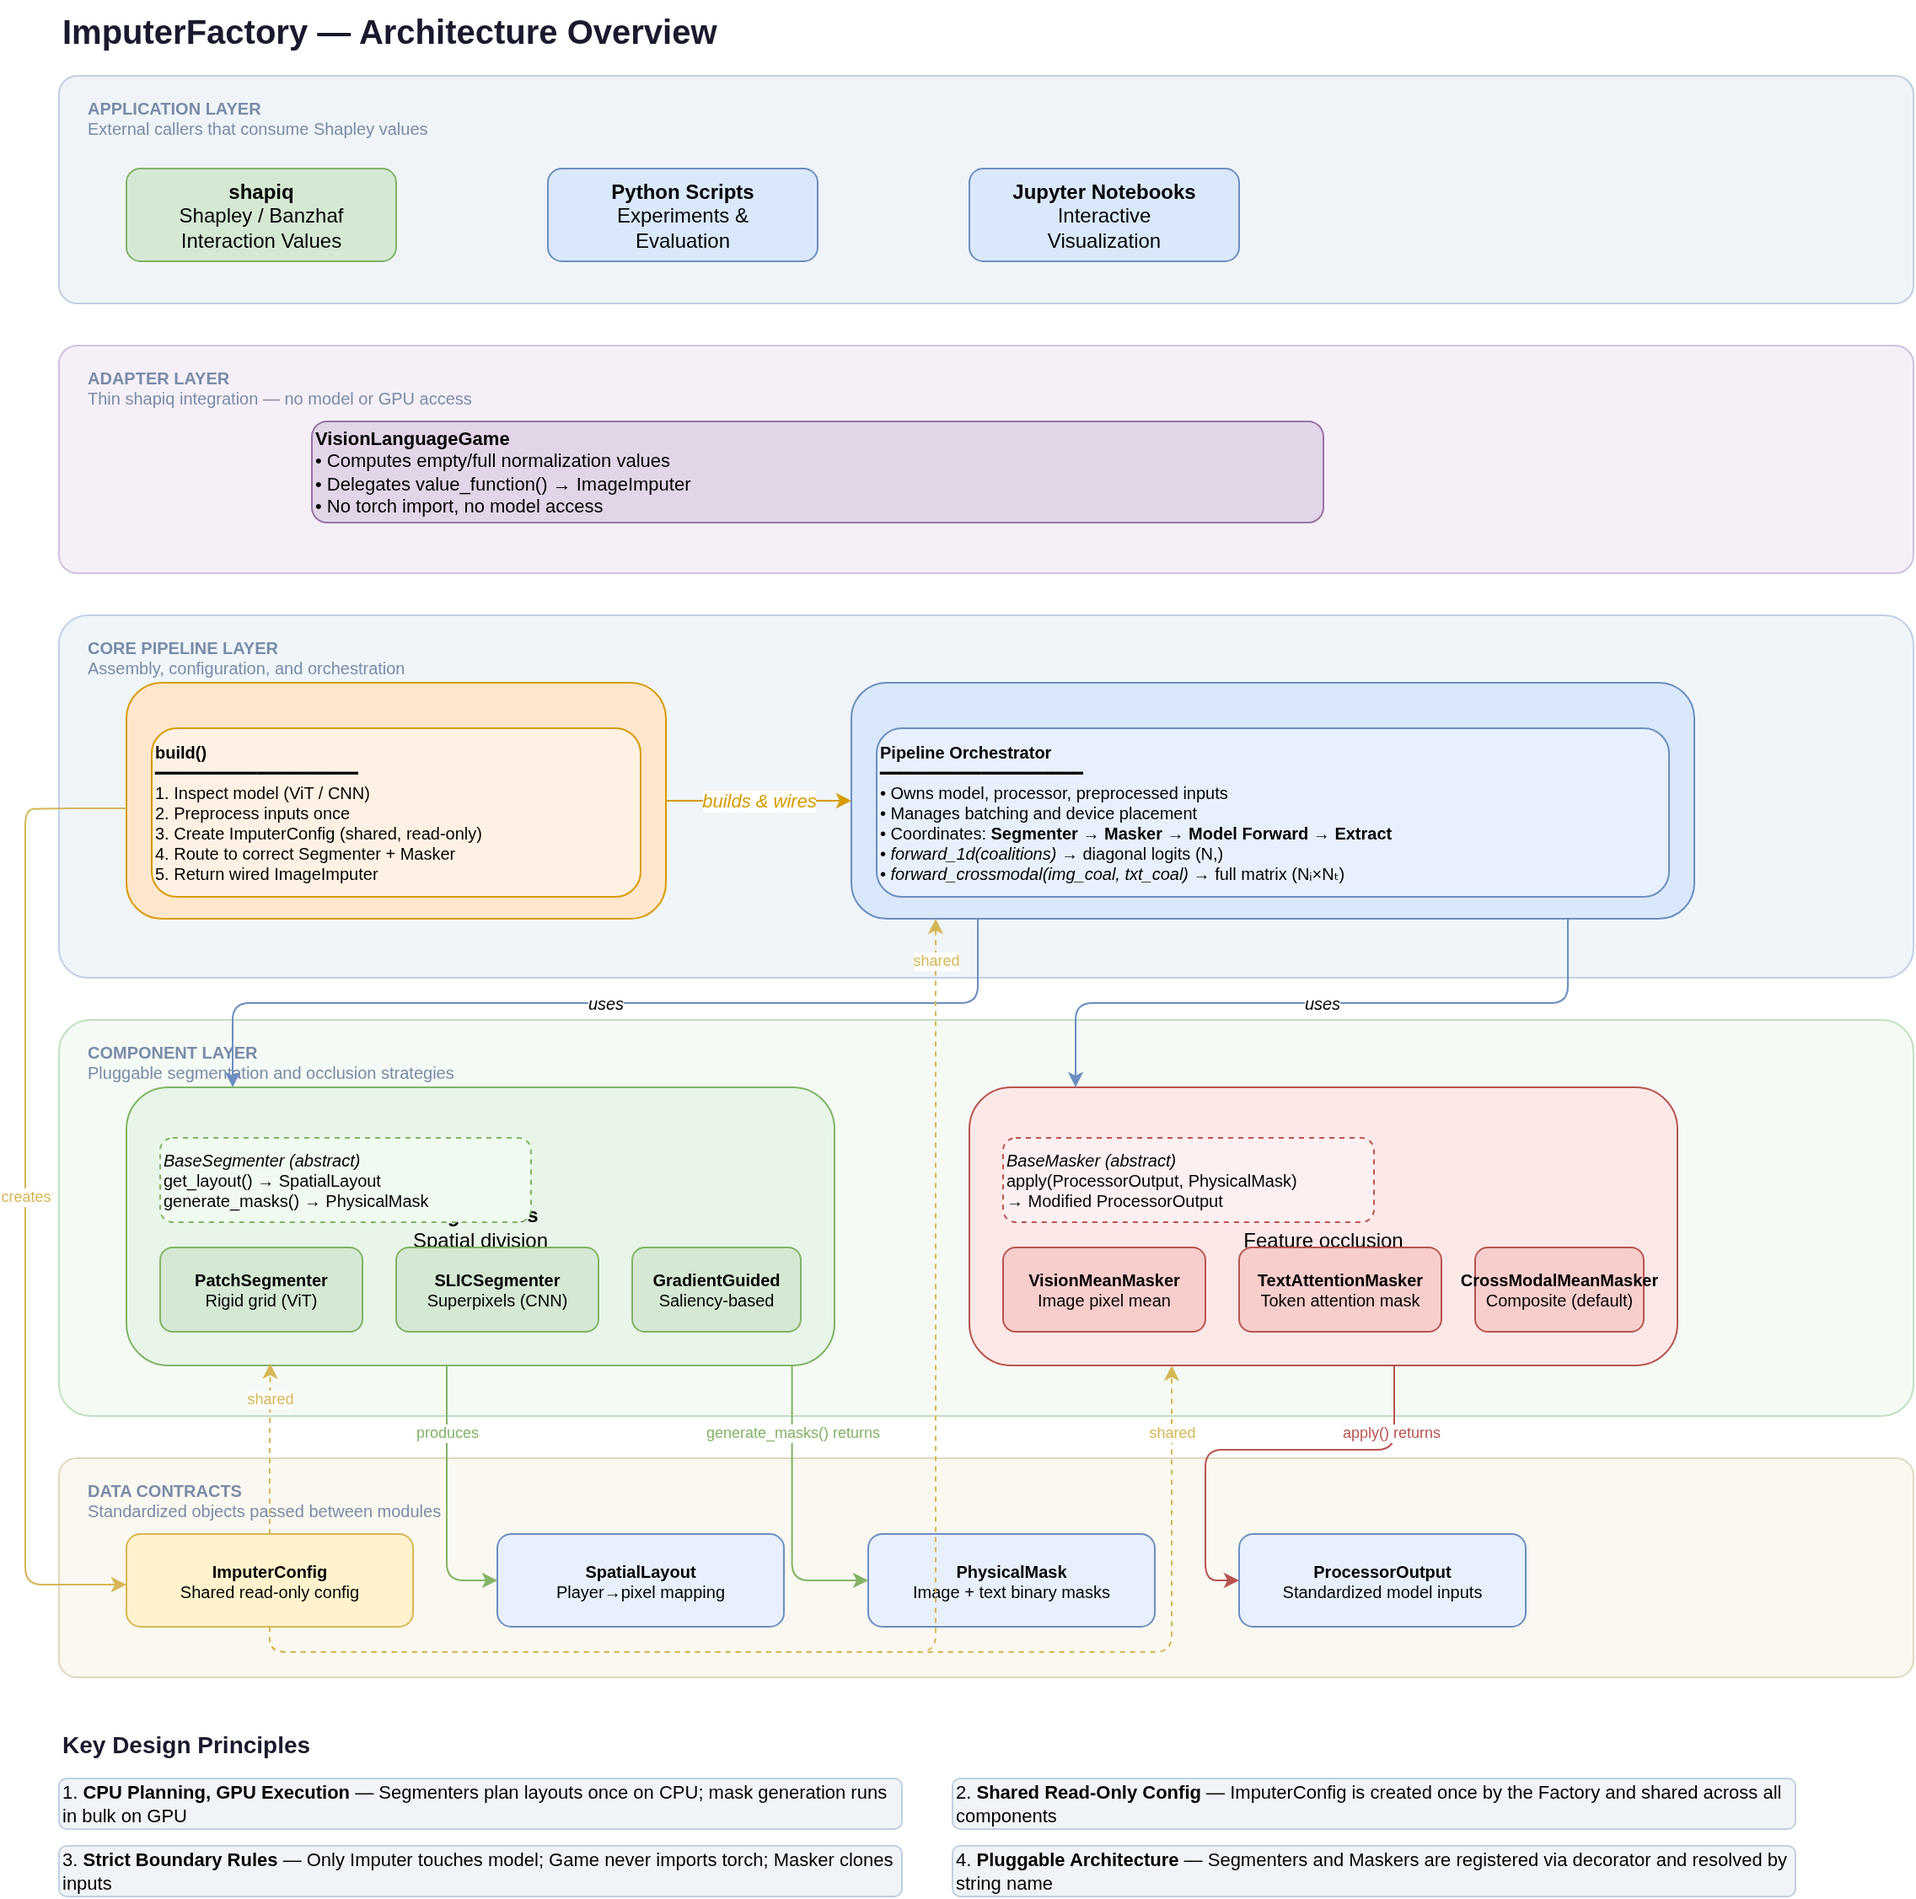
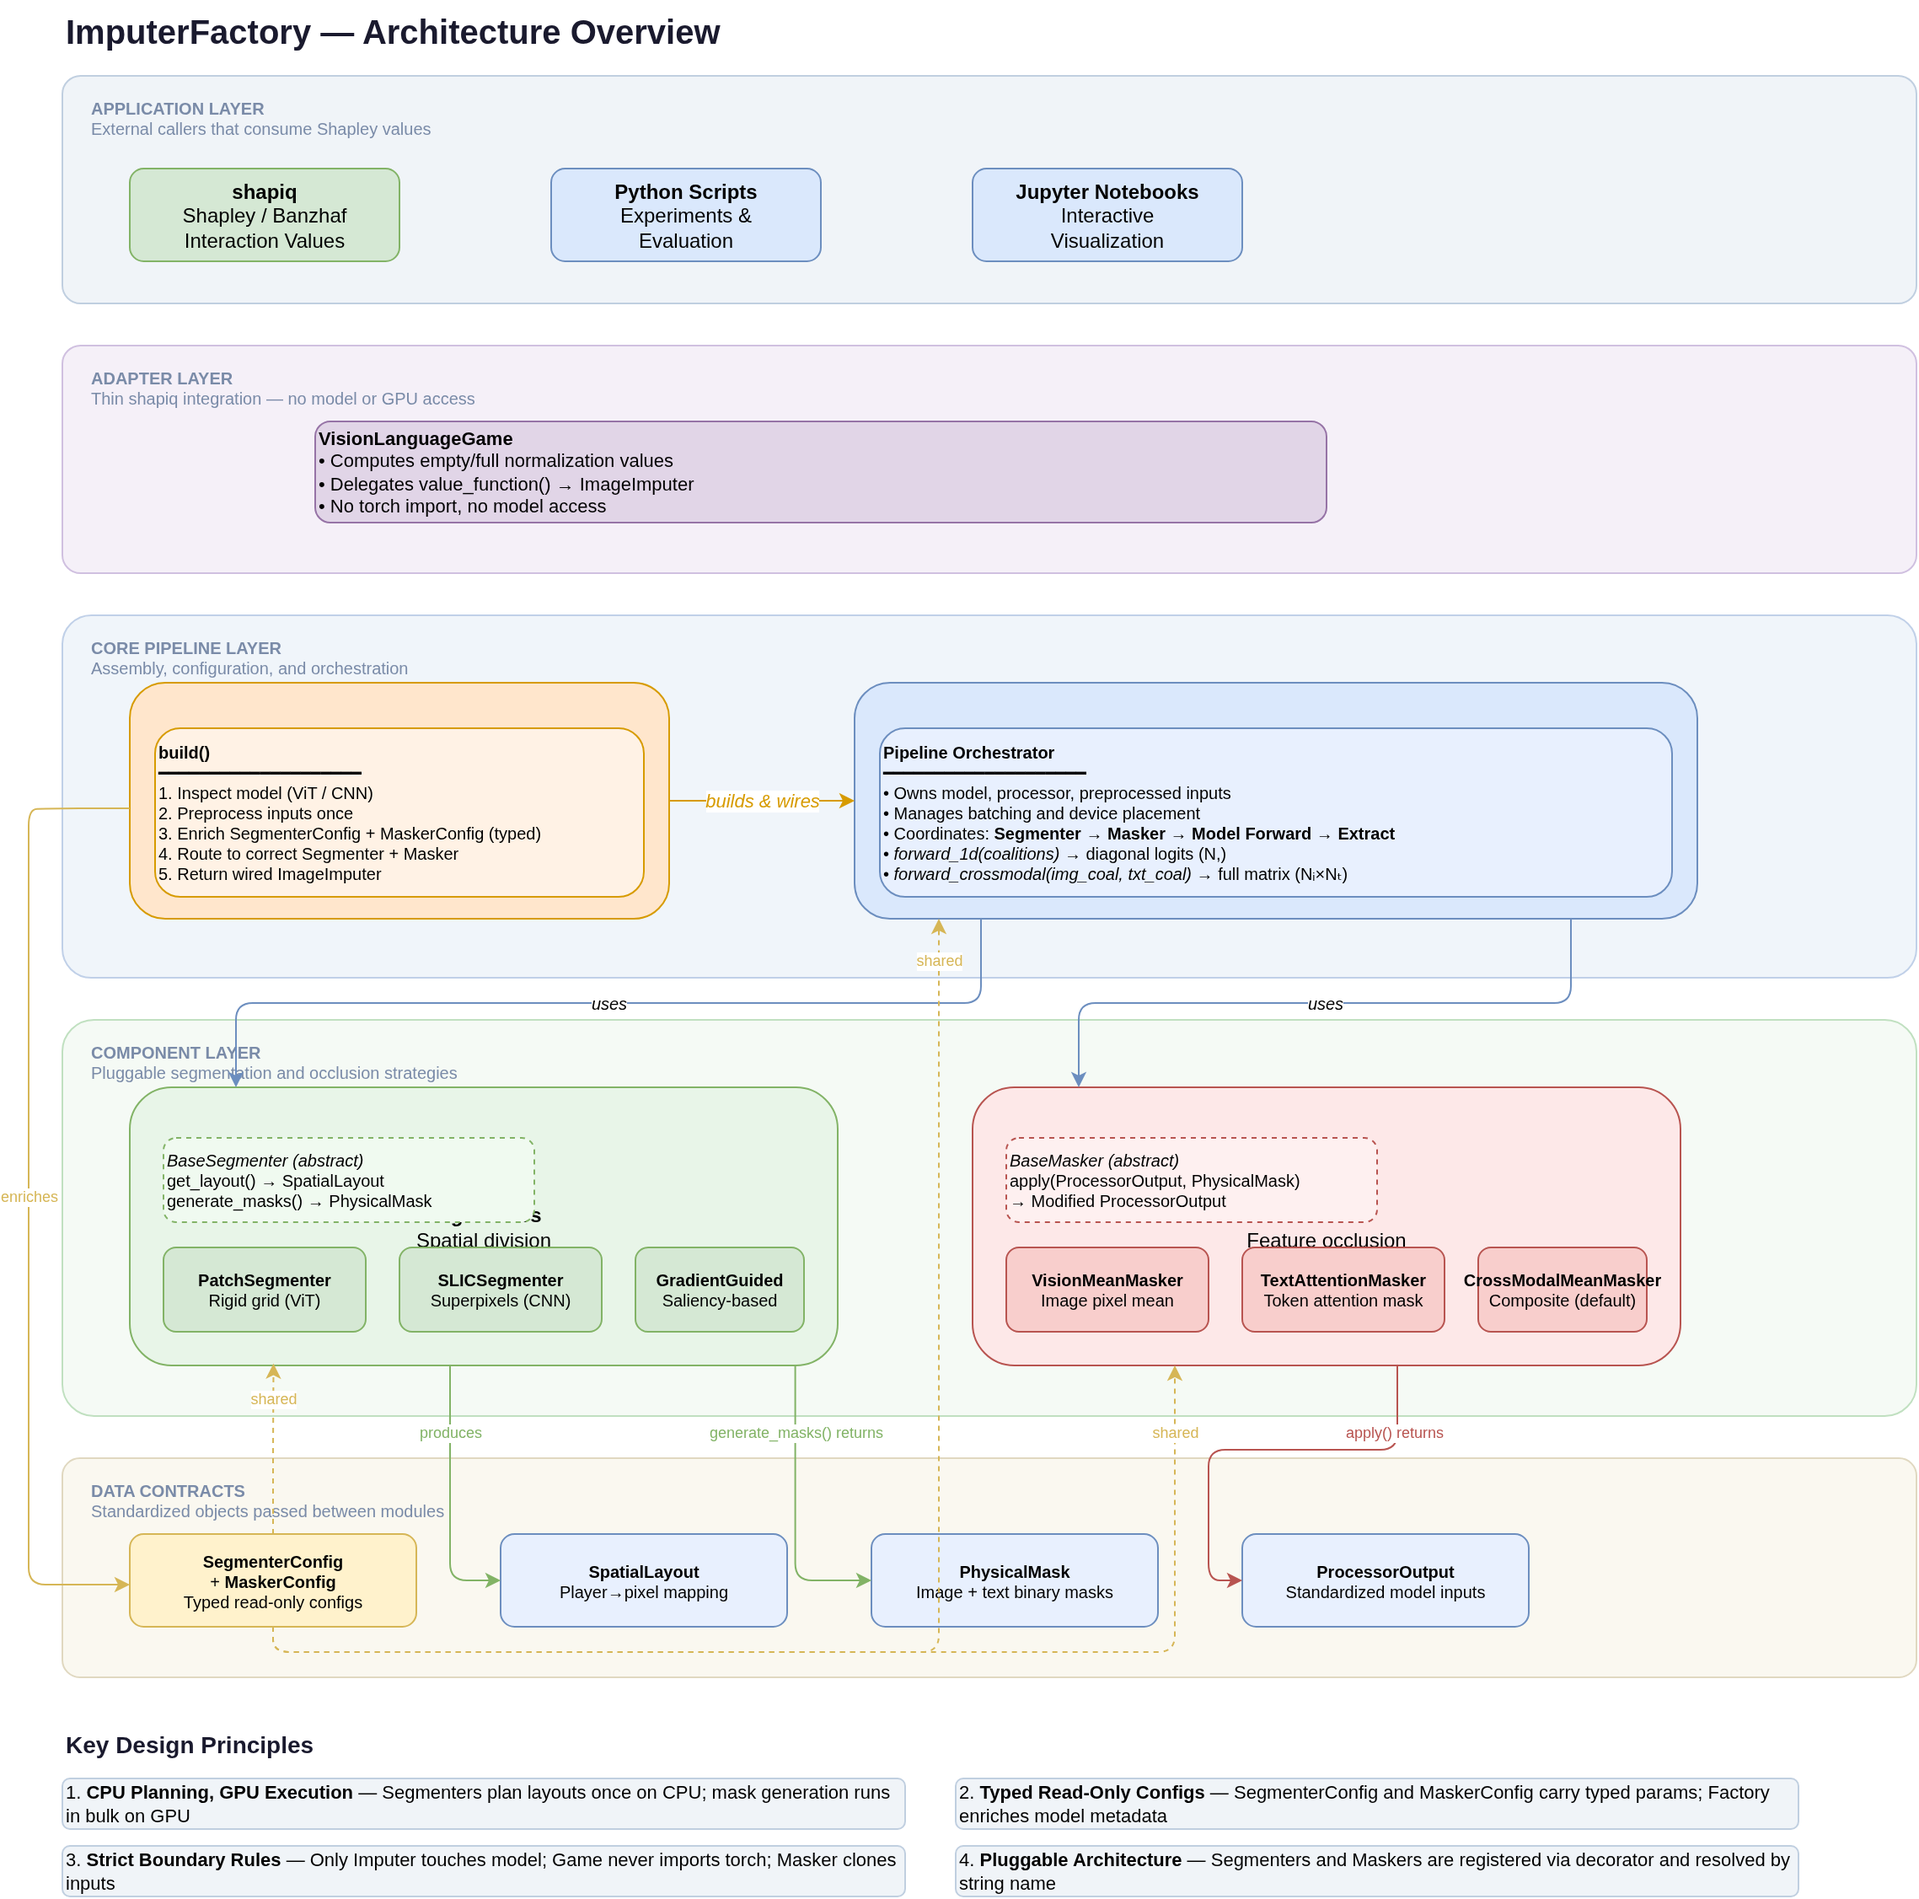
clean & archive old code

diff --git a/ImputerIntegrationDesign.md b/ImputerIntegrationDesign.md
@@ -1,0 +1,213 @@
+# shapiq Imputer Integration — Development Requirements
+
+> **Status**: Finalised, entering development  
+> **Chosen approach**: Option A (`shapiq/imputer/vision/` sub-package)  
+> **Date**: 2026-06-03  
+> **Lead**: PM (migration + integration), Team B (VisionBlurMasker implementation)
+
+---
+
+## 1. Requirements Overview
+
+Integrate our modular Segmenter/Masker/Imputer architecture from `ImputerFactory/` + `Game/` into upstream `shapiq/imputer/` as a PR.
+
+**Original requirement**:
+> "pluggable players (patches / SLIC / custom masks) × masking strategies (mean / blur / attention / beyond)"
+
+**PR boundary**:
+- Goes upstream: abstract base classes + one complete pipeline (PatchSegmenter + VisionMeanMasker + VisionBlurMasker + VisionImputer + VisionLanguageGame) + tests + example notebook
+- Stays in this project: CLIP/SigLIP model detection, experiments, FIxLIP approximator, `src/`
+
+---
+
+## 2. Chosen Approach: Option A — `shapiq/imputer/vision/` sub-package
+
+Add a `vision/` sub-package under `shapiq/imputer/`, independent of the existing tabular `Imputer` hierarchy.
+
+### Directory layout
+
+```
+shapiq/imputer/vision/
+├── __init__.py                  # Public API exports
+├── base.py                      # Segmenter(ABC), Masker(ABC), dataclasses
+├── segmenters/
+│   ├── __init__.py
+│   ├── patch.py                 # PatchSegmenter (ViT rigid grid)
+│   └── slic.py                  # SLICSegmenter (superpixels, skimage)
+├── maskers/
+│   ├── __init__.py
+│   ├── vision_mean.py           # VisionMeanMasker (zero-out / mean fill)
+│   ├── vision_blur.py           # VisionBlurMasker (Gaussian blur, CPU skimage)
+│   ├── text_attention.py        # TextAttentionMasker (attention mask swap)
+│   └── crossmodal.py            # CrossModalMeanMasker + CrossModalBlurMasker
+├── imputer.py                   # VisionImputer (orchestration)
+├── factory.py                   # VisionImputerFactory (assembly)
+└── game.py                      # VisionLanguageGame (thin Game adapter)
+```
+
+### File mapping (this project → upstream)
+
+| `ImputerFactory/` → | `shapiq/imputer/vision/` | Notes |
+|---|---|---|
+| `segmenters/base.py` ⇒ `BaseSegmenter` | `base.py` ⇒ `Segmenter` (abstract) | Renamed |
+| `segmenters/patch.py` ⇒ `PatchSegmenter` | `segmenters/patch.py` ⇒ `PatchSegmenter` | Direct port |
+| `segmenters/slic.py` ⇒ `SLICSegmenter` | `segmenters/slic.py` ⇒ `SLICSegmenter` | Direct port |
+| `maskers/base.py` ⇒ `BaseMasker` | `base.py` ⇒ `Masker` (abstract) | Renamed |
+| `maskers/vision_mean.py` | `maskers/vision_mean.py` | Direct port |
+| `maskers/vision_blur.py` | `maskers/vision_blur.py` | New (CPU skimage impl.) |
+| `maskers/text_attention.py` | `maskers/text_attention.py` | Direct port |
+| `maskers/crossmodal_mean.py` | `maskers/crossmodal.py` ⇒ `CrossModalMeanMasker` | Direct port |
+| `maskers/crossmodal_blur.py` | `maskers/crossmodal.py` ⇒ `CrossModalBlurMasker` | New composite |
+| `core/imputer.py` ⇒ `ImageImputer` | `imputer.py` ⇒ `VisionImputer` | Renamed |
+| `factory.py` ⇒ `ImageImputerFactory` | `factory.py` ⇒ `VisionImputerFactory` | Core logic ported |
+| `data.py` (dataclasses) | `base.py` (dataclasses) | Data protocol ported |
+| `Game/game_huggingface.py` ⇒ `VisionLanguageGame` | `game.py` ⇒ `VisionLanguageGame` | Direct port |
+
+### What does NOT go into the PR
+
+| Component | Reason |
+|---|---|
+| `GradientGuidedSegmenter` | Not validated |
+| `AdaptiveSegmenter` / `HybridSegmenter` | Not implemented / out of scope |
+| `AttentionMasker` | Stub, incomplete |
+| `TorchOps` / `JAXOps` | PyTorch-only for now; JAX out of scope |
+| `FIxLIP` approximator | Project-specific |
+| `regression.py` | FIxLIP-specific |
+| CLIP/SigLIP model auto-detection | Too specific for upstream |
+| `plot.py` | Visualisation utilities |
+| `src/` / `experiments/` / `analysis/` | Project legacy |
+
+### Cross-product matrix
+
+|  | VisionMeanMasker | VisionBlurMasker | TextAttentionMasker | CrossModalMeanMasker | CrossModalBlurMasker |
+|---|---|---|---|---|---|
+| **PatchSegmenter** | ✅ Image | ✅ Image | ✅ Text | ✅ VLM default | ✅ VLM |
+| **SLICSegmenter** | ✅ Image | ✅ Image | ✅ Text | ✅ VLM | ✅ VLM |
+| **Custom segmenter** | ✅ | ✅ | ✅ | ✅ | ✅ |
+
+### User import paths
+
+```python
+# Core
+from shapiq.imputer.vision import VisionImputer, VisionImputerFactory, VisionLanguageGame
+
+# Segmenters
+from shapiq.imputer.vision.segmenters import PatchSegmenter, SLICSegmenter
+
+# Maskers
+from shapiq.imputer.vision.maskers import (
+    VisionMeanMasker, VisionBlurMasker, TextAttentionMasker,
+    CrossModalMeanMasker, CrossModalBlurMasker,
+)
+
+# Abstract contracts (for custom implementations)
+from shapiq.imputer.vision import Segmenter, Masker
+
+# Data types
+from shapiq.imputer.vision import (
+    SegmenterConfig, MaskerConfig,
+    SpatialLayout, PhysicalMask, ProcessorOutput,
+)
+```
+
+---
+
+## 3. Abstract Contracts
+
+### Segmenter
+
+```python
+class Segmenter(ABC):
+    @abstractmethod
+    def get_layout(self) -> SpatialLayout: ...
+    @abstractmethod
+    def generate_masks(self, coalitions_image: np.ndarray,
+                       coalitions_text: np.ndarray) -> PhysicalMask: ...
+```
+
+**Rule**: `generate_masks()` MUST NOT access the GPU ("CPU Planning, GPU Execution").
+
+### Masker
+
+```python
+class Masker(ABC):
+    @abstractmethod
+    def apply(self, processor_output: ProcessorOutput,
+              physical_mask: PhysicalMask) -> ProcessorOutput: ...
+```
+
+**Rule**: MUST clone inputs before mutation. Never modify in-place.
+
+### Data types
+
+| Type | Description | Fields |
+|---|---|---|
+| `SpatialLayout` | Immutable spatial metadata | `n_players_image`, `n_players_text`, `grid_size`, `image_size`, `patch_size` |
+| `PhysicalMask` | Concrete occlusion masks | `image_binary_mask: Tensor (N,C,H,W)`, `text_attention_mask: Tensor (M,L)` |
+| `ProcessorOutput` | Standardised model inputs | `pixel_values`, `input_ids`, `attention_mask` + `.to_dict()` |
+| `SegmenterConfig` | Segmenter configuration | `strategy`, per-strategy params, model metadata |
+| `MaskerConfig` | Masker configuration | `strategy`, per-strategy params |
+
+---
+
+## 4. VisionBlurMasker Design
+
+CPU-only (Phase 1). GPU conv2d optimisation is a future concern.
+
+```python
+# Core logic: skimage.filters.gaussian on CPU numpy
+for batch_idx in range(N):
+    for c in range(C):
+        blurred[batch_idx, c] = gaussian_blur(im_np[batch_idx, c], sigma=sigma)
+# Blend
+blended = im_np * mask_np + blurred * (1.0 - mask_np)
+```
+
+- `sigma` constructor parameter, default 3.0
+- `CrossModalBlurMasker` composes `VisionBlurMasker` + `TextAttentionMasker`
+
+---
+
+## 5. Upstream Dependencies
+
+| Dependency | Status | Notes |
+|---|---|---|
+| `torch` | Already in shapiq | Used by `shapiq.explainer.nn` |
+| `transformers` | **New** | HuggingFace model loading |
+| `scikit-image` | **New** | SLIC superpixels, Gaussian blur |
+| `PIL` (Pillow) | Already in shapiq | Image loading |
+
+**No changes to existing shapiq code required.** The vision sub-package is purely additive.
+
+---
+
+## 6. Acceptance Criteria
+
+| # | Criterion | Method |
+|---|---|---|
+| AC1 | `PatchSegmenter` + `VisionMeanMasker` pipeline runs on CLIP ViT-B/32 | Equivalent to `example.ipynb` |
+| AC2 | `SLICSegmenter` + `VisionBlurMasker` pipeline runs on CLIP-RN50 | Equivalent to SLIC example |
+| AC3 | `VisionLanguageGame(Game)` `value_function()` returns correct shapes | Test assertions |
+| AC4 | `VisionImputerFactory.build()` correctly infers model type and assembles components | Test assertions |
+| AC5 | All abstract contract tests pass for every segmenter and masker | `pytest tests/imputer/vision/` |
+| AC6 | Example notebook executes without errors | End-to-end run |
+
+---
+
+## Appendix
+
+### A. Solution comparison
+
+| Approach | Description | Decision |
+|---|---|---|
+| **Option A** | New `shapiq/imputer/vision/` sub-package, independent of tabular Imputer | ✅ **Chosen** |
+| **Option B** | Refactor `Imputer` base class to accept vision parameters | ❌ High backward-compat risk |
+| **Option C** | Place `VisionLanguageGame` under `shapiq/games/`, Segmenter/Masker unexposed | ❌ Does not meet modularity goal |
+
+### B. Option B summary
+
+Refactor `Imputer.__init__` to accept optional domain-specific parameters (`model, processor, image, text` in place of `data, x`), and add `_segment()` / `_occlude()` abstract methods to the base. Pro: unified hierarchy. Con: backward-incompatible, semantic mismatch between tabular imputation and vision masking, longer PR cycle.
+
+### C. Option C summary
+
+Place `VisionLanguageGame` directly under `shapiq/explainer/nn/games/` (alongside existing KNN/TNN Games), without exposing Segmenter/Masker interfaces. Minimal upstream changes but fails to achieve the stated goal of "making shapiq modular with pluggable segmenters and maskers."

diff --git a/ImplementationProgressSummary.md b/ImplementationProgressSummary.md
@@ -202,10 +202,10 @@ Recorded AID values are smoke/integration outputs; strict ±5% reporting should 
 
 | # | Task | Details | Blocked by | Status |
 |---|---|---|---|---|
-| P8.1 | Integration design review | Review and finalize `shapiq_imputer_integration_design.md`; align team on PR scope | — | 🔄 In review |
-| P8.2 | Port abstract contracts | Move `BaseSegmenter`, `BaseMasker`, data types to `shapiq/imputer/vision/base.py` | P8.1 ✅ | ⬜ Not started |
-| P8.3 | Port PatchSegmenter + VisionMeanMasker + VisionBlurMasker | Minimal viable pipeline: PatchSegmenter + VisionMeanMasker/VisionBlurMasker → VisionImputer → VisionLanguageGame | P8.2 ✅ | ⬜ Not started |
-| P8.4 | Write upstream tests + example | Tests for segmenter/masker/imputer; minimal CLIP example notebook | P8.3 ✅ | ⬜ Not started |
+| P8.1 | Integration design review | Review and finalize `shapiq_imputer_integration_design.md`; align team on PR scope | — | ✅ Done |
+| P8.2 | Port abstract contracts | Move `BaseSegmenter`, `BaseMasker`, data types to `shapiq/imputer/vision/base.py` | P8.1 ✅ | ✅ Done |
+| P8.3 | Port PatchSegmenter + VisionMeanMasker + VisionImputer + VisionLanguageGame | Core pipeline: PatchSegmenter + VisionMeanMasker → VisionImputer → VisionLanguageGame | P8.2 ✅ | ✅ Done |
+| P8.4 | Write upstream tests + example notebook | 18 unit tests + `docs/examples/vision_language_clip.ipynb` | P8.3 ✅ | ✅ Done |
 | P8.5 | Submit PR to mmschlk/shapiq | Open PR with abstract bases + one concrete pipeline | P8.4 ✅ | ⬜ Not started |
 | P8.6 | Adopt upstream in our project | Replace `ImputerFactory` imports with `shapiq.imputer.vision`; validate equivalence | P8.5 ✅ (merged) | ⬜ Not started |
 
